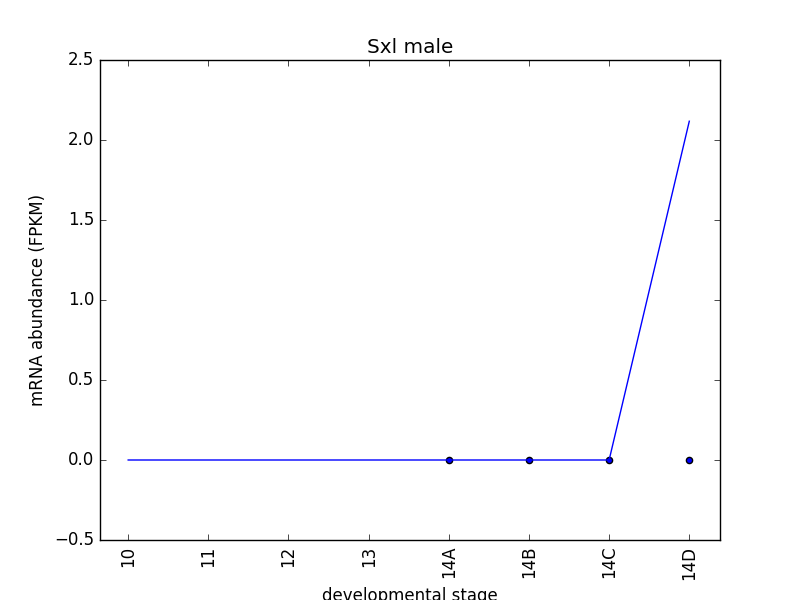
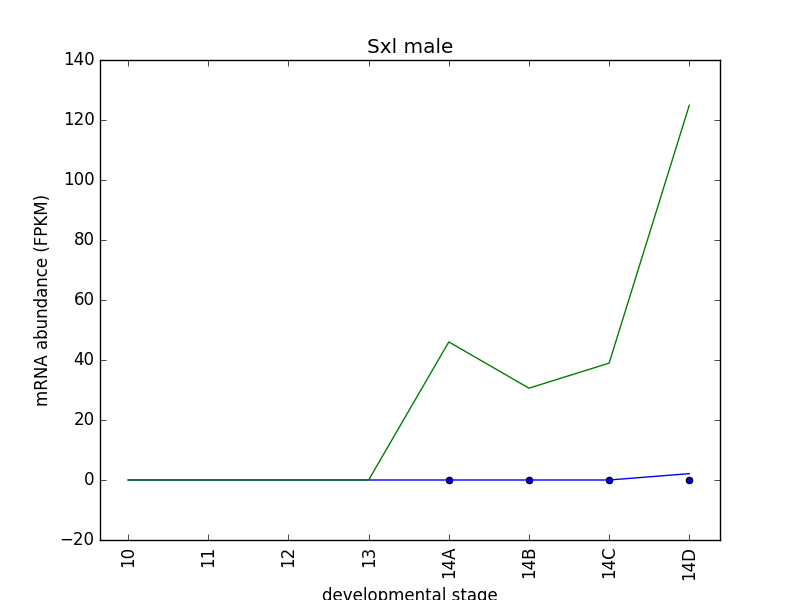
day4 homework correct version part 1

diff --git a/day4-homework/day4-homework-timecoursewithreplicates.py b/day4-homework/day4-homework-timecoursewithreplicates.py
@@ -12,12 +12,14 @@ ctab_dir = sys.argv[3] #/users...results/stringtie/
 #make female plot from paper
 #[1, 0, 2, 10, 50, 100]
 
-
+female_Sxl = []
 male_Sxl = []
 male_Sxl_replicates = []
 male_Sxl_replicates_stages = [4, 5, 6, 7]
 df_roi = df_meta["sex"] == "male"
 df2_roi = df_replicates["sex"] == "male"
+df3_roi = df_meta["sex"] == "female"
+
 
 for sample in df_meta[df_roi]["sample"]:
     filename = ctab_dir + "/" + sample + "/t_data.ctab"
@@ -25,6 +27,13 @@ for sample in df_meta[df_roi]["sample"]:
     #then appending the info from the new file to a list to sift through the fpkm values of just the females 
     df_roi2 = df["t_name"] == "FBtr0331261"
     male_Sxl.append(df[df_roi2]["FPKM"].values) #.values comes from np through pandas-it is taking a pandas series structure and converting it to a np structure so matpotlib can understand it-returns just the value without any of the extra names with it. 
+for sample in df_meta[df3_roi]["sample"]:
+    filename = ctab_dir + "/" + sample + "/t_data.ctab"
+    df3 = pd.read_table( filename ) 
+    
+    df_roi2 = df["t_name"] == "FBtr0331261"
+    female_Sxl.append(df3[df_roi2]["FPKM"].values)     
+
 for sample in df_replicates[df2_roi]["sample"]:
     filename2 = ctab_dir + "/" + sample + "/t_data.ctab"
     df2 = pd.read_table(filename2)
@@ -41,9 +50,11 @@ plt.figure()
 plt.title("Sxl male")
 #plt.xscale(10,2)
 plt.plot(male_Sxl)
+plt.plot(female_Sxl)
 plt.xticks(range(8), xticks, rotation="vertical")
+plt.ylim((0, 150))
 plt.scatter(male_Sxl_replicates_stages, male_Sxl_replicates)
 plt.xlabel("developmental stage")
 plt.ylabel("mRNA abundance (FPKM)")
-plt.savefig("timecourse_replicates.png")
+plt.savefig("timecourse_replicates2.png")
 plt.close()
